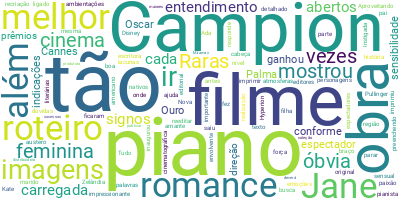
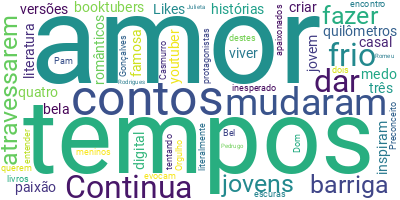
fix local and version errors

diff --git a/templates/wordcloud.html b/templates/wordcloud.html
@@ -18,7 +18,8 @@
     <button id="voltar" class="btn btn-primary mt-3" onclick="redirectToChat()">Voltar</button>
         <script>
         function redirectToChat() {
-            window.location.href = "{{ url_for('recommendations_bp.recommendations') }}";
+            window.location.href = "{{ url_for('recommendations_bp.recommendations') }}?from=wordcloud";
+
         }
         </script>
 </div>

diff --git a/routes/recommendations.py b/routes/recommendations.py
@@ -33,9 +33,20 @@ def recommendations():
             messages.append({'sender': 'bot', 'text': "As informações do livro não foram encontradas."})
 
     if request.method == "GET":
-        if top_books:
+        from_page = request.args.get('from')
+
+        if top_books and from_page == "wordcloud":
+            messages.pop()
+            messages.append({
+                'sender': 'bot',
+                'text': "Gostaria de ver um histograma de palavras? Se não, escolha outro livro ou digite 'sair'."
+            })
+            session['histogram_choice'] = True
+            session.pop('wordcloud_choice', None)
+
+        elif top_books and not from_page == "wordcloud":
             # Exibir os livros recomendados
-            messages.append({'sender': 'bot', 'text': "<b>Aqui estão alguns livros que podem te interessar!</b>"})
+            messages.append({'sender': 'bot', 'text': "<b>Aqui estão alguns livros que podem te interessar! Diga o nome do que te interessa saber mais ou 'sair' para encerrar</b>"})
 
             # Criar a lista de livros recomendados
             book_list = "<br>".join([f"{i+1}. {book['titulo']} - {book['autor']}" for i, book in enumerate(top_books)])
@@ -43,10 +54,8 @@ def recommendations():
             # Adicionar a lista de livros às mensagens
             messages.append({'sender': 'bot', 'text': book_list})
 
-            # Perguntar se o usuário deseja ver um histograma ou mais detalhes sobre um dos livros
-            messages.append({'sender': 'bot', 'text': "Gostaria de ver um histograma de palavras? Se não, me diga qual dos livros acima você gostaria de saber mais sobre."})
-
-            session['histogram_choice'] = True # Define estado para saber que é uma escolha de Histograma
+            session.pop('histogram_choice', None)
+            session['wordcloud_choice'] = False  # Define estado para saber que é uma escolha de Histograma
 
     elif request.method == "POST":
         user_input = request.form.get("user_input", "")

diff --git a/utils.py b/utils.py
@@ -28,7 +28,7 @@ def preprocess(text):
 # Função para carregar e preprocessar o DataFrame
 def process_dataframe():
     # Carregar o DataFrame completo em uma variável temporária
-    temp = pd.read_csv("/home/jufln/Projeto-IALC/dados.csv", encoding='UTF-8', sep=',')
+    temp = pd.read_csv("dados.csv", encoding='UTF-8', sep=',')
 
     # Filtrar apenas as colunas que serão utilizadas
     columns_to_use = ['titulo', 'descricao', 'autor', 'genero']
@@ -55,13 +55,12 @@ def process_dataframe():
 
 # Para chamar a df armazenada
 def get_cached_dataframe():
-    # Recuperar o CSV do cache e convertê-lo de volta para DataFrame
-    csv_data = cache.get('process_dataframe')
-    if csv_data is None:
+    df = cache.get('process_dataframe')
+
+    if df is None:
         df = process_dataframe()
-    else:
-        from io import StringIO
-        df = pd.read_csv(StringIO(csv_data))
+        cache.set('process_dataframe', df)
+
     return df
 
 def find_similar_books(livro_base, existe, same_author=False, descricao=None):
@@ -196,8 +195,8 @@ def generate_wordcloud(cleaned_description, stop_words):
     Retorno:
     - O caminho do arquivo gerado.
     """
-    font_path = r'/home/jufln/Projeto-IALC/static/fonts/Roboto-Regular.ttf'
-    output_path = r'/home/jufln/Projeto-IALC/static/wordcloud.png'
+    font_path = r'static/fonts/Roboto-Regular.ttf'
+    output_path = r'static/wordcloud.png'
 
     if os.path.exists(output_path):
         os.remove(output_path)

diff --git a/aiml_engine.py b/aiml_engine.py
@@ -1,9 +1,13 @@
 import aiml
+import time
 
+if not hasattr(time, "clock"):
+    time.clock = time.perf_counter
+    
 # Função para carregar o arquivo AIML com base no passo
 def load_aiml_for_step(step, kernel):
     try:
-        file_name = f"/home/jufln/Projeto-IALC/book_bot/step{step}.aiml"  # Constrói o nome do arquivo com base no step
+        file_name = f"book_bot/step{step}.aiml"  # Constrói o nome do arquivo com base no step
         kernel.learn(file_name)
     except:
         pass

diff --git a/routes/wordcloud.py b/routes/wordcloud.py
@@ -11,7 +11,7 @@ def wordcloud():
 
     if cleaned_description:
         # Definir caminho para salvar o arquivo da WordCloud
-        #wordcloud_path = os.path.join('static', 'wordcloud.png')
+        wordcloud_path = os.path.join('static', 'wordcloud.png')
 
         # Gerar o WordCloud
         generate_wordcloud(cleaned_description=cleaned_description, stop_words=stop_words_portuguese)

diff --git a/routes/histograma.py b/routes/histograma.py
@@ -10,7 +10,7 @@ def histograma():
 
     descricao_base = request.args.get('descricao', '')
     # Definir o caminho para salvar o histograma
-    output_path = r'/home/jufln/Projeto-IALC/static/histograma.png'
+    output_path = r'Projeto-IALC/static/histograma.png'
 
     # Verificar se o diretório existe e criar, se necessário
     if not os.path.exists(os.path.dirname(output_path)):

diff --git a/cache_config.py b/cache_config.py
@@ -1,7 +1,7 @@
 from flask_caching import Cache
 
-# Criação do objeto Cache
 cache = Cache()
 
 def init_cache(app):
+    app.config['CACHE_TYPE'] = 'SimpleCache'
     cache.init_app(app)

diff --git a/setup_nltk.py b/setup_nltk.py
@@ -1,0 +1,5 @@
+import nltk
+
+nltk.download('punkt')
+nltk.download('punkt_tab')
+nltk.download('stopwords')
